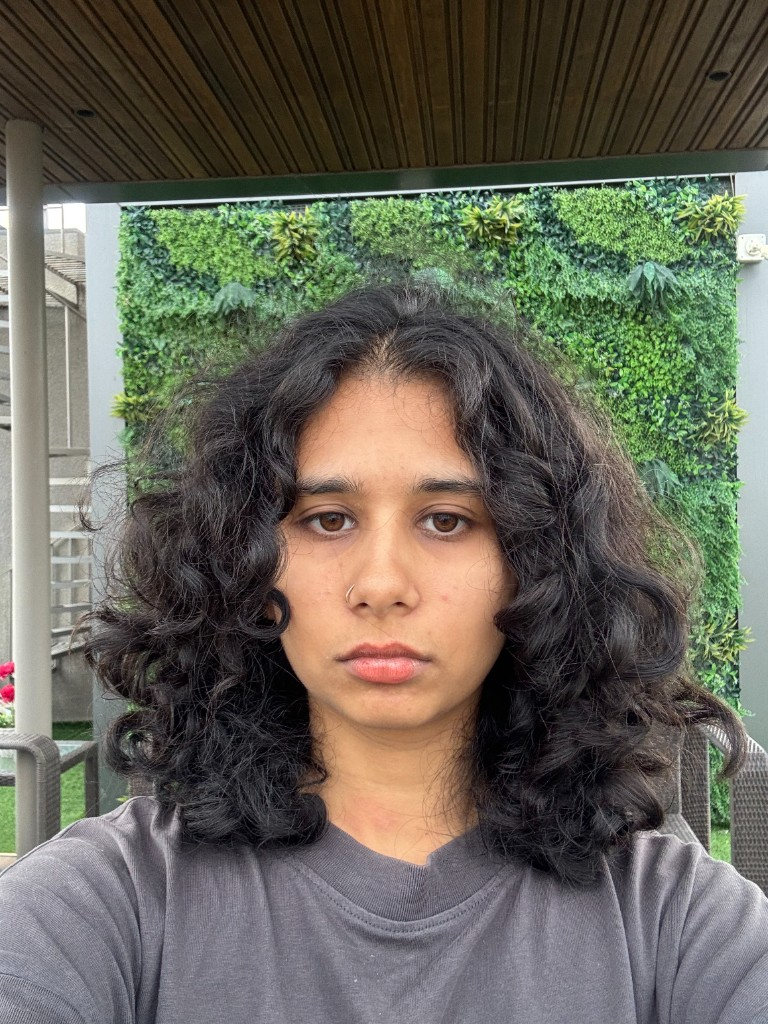
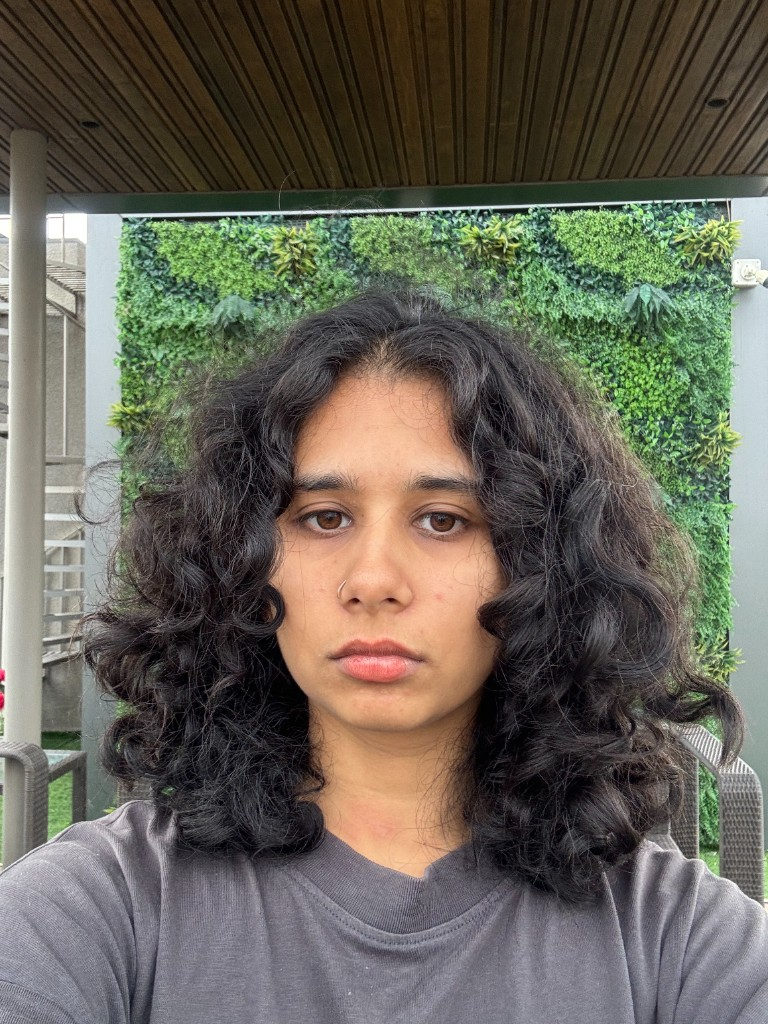
Refresh profile and adventure photos
Use the updated portrait and simplify the Adventures gallery for a cleaner visual presentation.

diff --git a/personal website/about-me.html b/personal website/about-me.html
@@ -35,7 +35,7 @@
       <div class="about-section">
         <div class="about-content">
           <div class="about-profile">
-            <img src="../about_image_new.png" alt="Mishika" class="about-image-left">
+            <img src="../about_image_new.png?v=2" alt="Mishika" class="about-image-left">
             <h3 class="profile-name">Mishika Lunia</h3>
             <p class="profile-role">Research Associate<br>KCDH, Ashoka University</p>
             <div class="social-links">

diff --git a/personal website/personal.js b/personal website/personal.js
@@ -46,7 +46,6 @@
   const activityImages = [
     '../fun/working out/trek-valley.png',
     '../fun/working out/langur.png',
-    '../fun/working out/IMG_5513.png',
     '../fun/working out/WhatsApp Image 2026-03-01 at 2.31.14 AM.jpeg'
   ];
 
